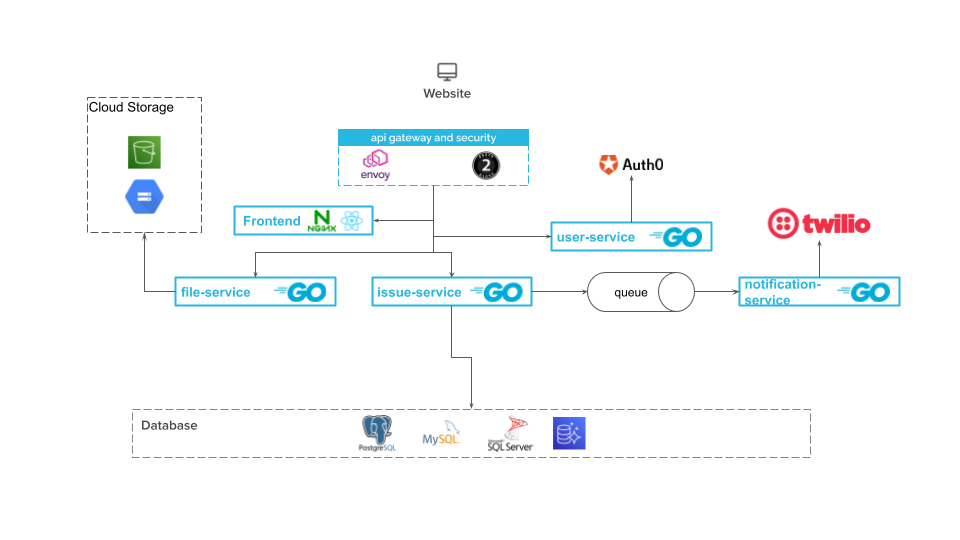
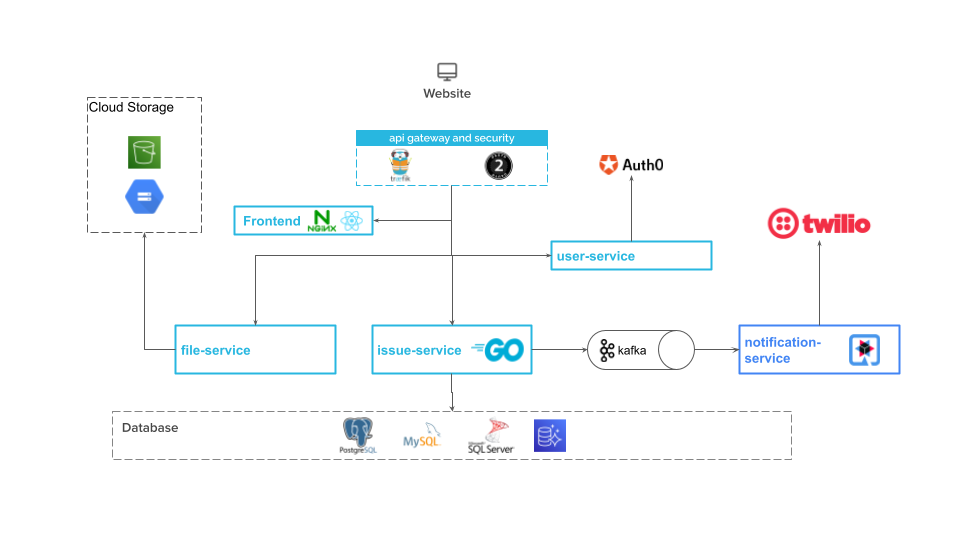
updated documentation and architecture

diff --git a/microservices.md b/microservices.md
@@ -2,9 +2,23 @@
 the scope of this document is to define the number of microservices and the domain they should cover, that is the APIs they should implement
 
 ## issue-service
+The issue service is responsible for the management of Projects, Sprints and Issues.
+A Project can have N Sprints and a Sprint can have M Issues.
+
+The service is written in go, and to develop it the following documentation has been browsed and used as reference:
+* error handling: https://earthly.dev/blog/golang-errors/
+* middleware: https://www.nicolasmerouze.com/middlewares-golang-best-practices-examples
+* project layout: https://github.com/golang-standards/project-layout + https://www.dudley.codes/posts/2020.05.19-golang-structure-web-servers/
 
 ## notification-service
+The idea is to write the service using [quarkus](https://quarkus.io/). 
+The service will consume messages on from a queue (probably a kafka topic) in order to send email using Twilio API. 
+It will also expose an API to send email synchronously.
 
 ## user-service
+The service is responsible for user creation, login/logout using Auth0 API. 
+It will also manage resource bindings, used to assign permissions to a user for a specific resource (ex: project permissions) 
 
 ## file-service
+The service manages file upload and download.
+It will leverage different drivers (DB, S3, Google Storage)
